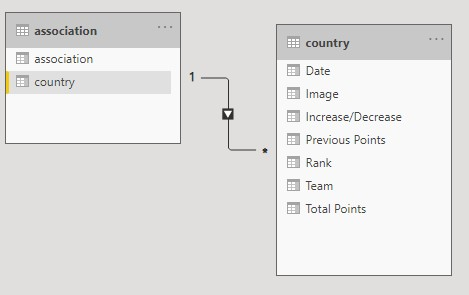
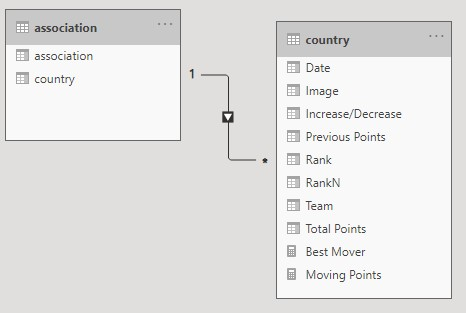
update

Changed region(s): [[0.0, 0.0, 0.9914, 0.9763]]

diff --git a/projects/fifa_scrapper.html b/projects/fifa_scrapper.html
@@ -124,21 +124,29 @@
                                     in Chrome by right click the tag and copy. 
                                 </p>
 
-                                <h5>Example of paginated pages in HTML</h5>
+                                <h5>Example of paginated pages structure in HTML</h5>
                                 <a href="../assets/images/projects/project5/paginated_pages.jpg" class="image main"><img src="../assets/images/projects/project5/paginated_pages.jpg" alt="" /></a><p></p>
                                
-                                <h5>Example of scraped dataset in csv</h5>
+                                <h5>Example of scrapping dataset</h5>
                                 <a href="../assets/images/projects/project5/dataset.jpg" class="image main"><img src="../assets/images/projects/project5/dataset.jpg" alt="" /></a>
                                 <p></p>
 
                                 <h4>3.3 Scraping data with concurrency or multi-threading</h4>
                                 <p>
-                                    Basic scraping in Python is pretty easy and simple but it can be time-consuming. There are many ways to enable the scrapping data with concurrency, and this project suggests 
+                                    Basic scraping in Python is pretty easy and simple but it can be very time-consuming. There are many ways to enable the scrapping data with concurrency, and this project suggests 
                                     to use the custom class to create instances representing thread workers. 
                                 </p>
 
                                 <h3>4. Data Visualization</h3>
                                 <h4>4.1 Data preparation</h4>
+                                <p>Scrapping dataset is pretty much standard and clean except for the following minor issues:</p>
+                                <ul>
+                                        <li>The format of current ranking period for September is "DD Sept YYYY" which is different with other periods, that 
+                                            may cause the data importing issue in Power BI.
+                                        </li>
+                                        <li>The name for some countries should be standardized across the whole dataset. For example,
+                                            Côte d'Ivoire, Türkiye can be replaced by Ivory Coast and Turkey respectively. </li>
+                                </ul>
                                 
                                 <h5>Example of data relationship</h5>
                                 <a href="../assets/images/projects/project5/erd.jpg" class="image main"><img src="../assets/images/projects/project5/erd.jpg" alt="" /></a><p></p>
@@ -148,12 +156,14 @@
                                 <a href="../assets/images/projects/project5/federation.jpg" class="image main"><img src="../assets/images/projects/project5/federation.jpg" alt="" /></a><p></p>
                                 <h5>Example of country analysis</h5>
                                 <a href="../assets/images/projects/project5/country.jpg" class="image main"><img src="../assets/images/projects/project5/country.jpg" alt="" /></a><p></p>
-                                <h5>Example of rank table</h5>
+                                <h5>Example of full ranking table</h5>
                                 <a href="../assets/images/projects/project5/rank_table.jpg" class="image main"><img src="../assets/images/projects/project5/rank_table.jpg" alt="" /></a><p></p>
                                 
-                                <h5>Example of world ranking by bar chart race</h5>
-                                <p>To be updated.</p>
-                                <!--<p><a href="https://github.com/phuphan13/FIFA-web-scraping" target="_blank">>> Github repo </a></p>-->
+                                <h5>Example of best movers</h5>
+                                <a href="../assets/images/projects/project5/best_mover.jpg" class="image main"><img src="../assets/images/projects/project5/best_mover.jpg" alt="" /></a><p></p>
+                               
+                                <p>To be continued.</p>
+                                <p><a href="https://github.com/phuphan13/FIFA-web-scraping" target="_blank">>> Github repo </a></p>
                             </section>
                     </div>
 
